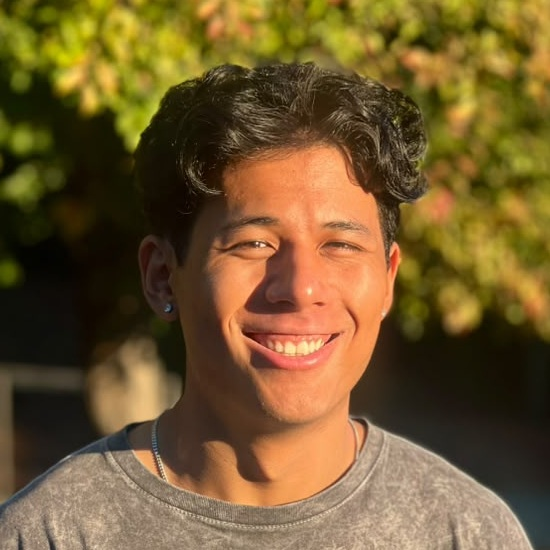
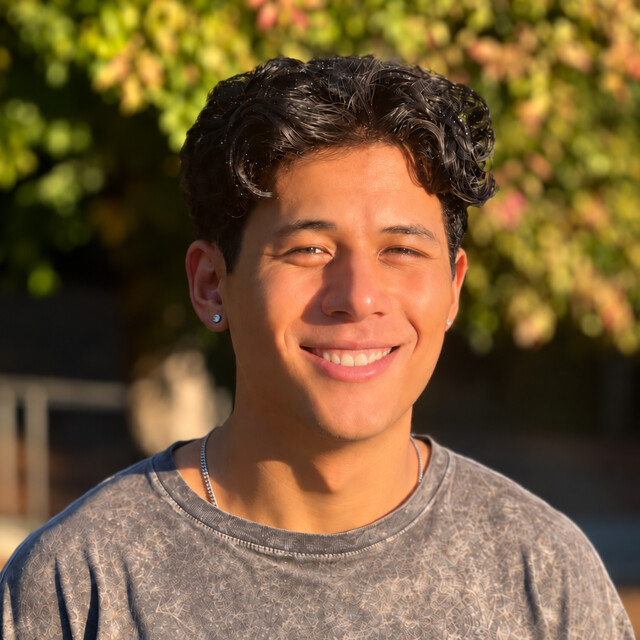
Update website headshot with cropped portrait

diff --git a/index.html b/index.html
@@ -7,9 +7,9 @@
     <meta name="description" content="Thomas Jiralerspong - PhD Student at Mila, Research Fellow at Astra Fellowship">
 
     <!-- Favicons -->
-    <link rel="icon" type="image/jpeg" href="/assets/images/profile.jpg">
-    <link rel="apple-touch-icon" href="/assets/images/profile.jpg">
-    <meta name="msapplication-TileImage" content="/assets/images/profile.jpg">
+    <link rel="icon" type="image/jpeg" href="/assets/images/profile.jpg?v=20260908">
+    <link rel="apple-touch-icon" href="/assets/images/profile.jpg?v=20260908">
+    <meta name="msapplication-TileImage" content="/assets/images/profile.jpg?v=20260908">
 
     <!-- Structured Data for Google Search -->
     <script type="application/ld+json">
@@ -17,7 +17,7 @@
       "@context": "https://schema.org",
       "@type": "Person",
       "name": "Thomas Jiralerspong",
-      "image": "https://superkaiba.github.io/assets/images/profile.jpg",
+      "image": "https://superkaiba.github.io/assets/images/profile.jpg?v=20260908",
       "url": "https://superkaiba.github.io",
       "jobTitle": "PhD Student",
       "description": "PhD Student at Mila, Research Fellow at Astra Fellowship",
@@ -97,7 +97,7 @@
         <div class="top-section">
             <!-- Left: Photo, Name, Links -->
             <div class="profile-column">
-                <img src="assets/images/profile.jpg" alt="Thomas Jiralerspong" class="profile-image">
+                <img src="assets/images/profile.jpg?v=20260908" alt="Thomas Jiralerspong" class="profile-image">
                 <h1 class="site-title">Thomas Jiralerspong</h1>
 
                 <div class="links-column">

diff --git a/testimonials.html b/testimonials.html
@@ -7,9 +7,9 @@
     <meta name="description" content="Anonymized testimonials from students mentored by Thomas Jiralerspong">
 
     <!-- Favicons -->
-    <link rel="icon" type="image/jpeg" href="/assets/images/profile.jpg">
-    <link rel="apple-touch-icon" href="/assets/images/profile.jpg">
-    <meta name="msapplication-TileImage" content="/assets/images/profile.jpg">
+    <link rel="icon" type="image/jpeg" href="/assets/images/profile.jpg?v=20260908">
+    <link rel="apple-touch-icon" href="/assets/images/profile.jpg?v=20260908">
+    <meta name="msapplication-TileImage" content="/assets/images/profile.jpg?v=20260908">
 
     <link rel="preconnect" href="https://fonts.googleapis.com">
     <link rel="preconnect" href="https://fonts.gstatic.com" crossorigin>

diff --git a/top5s.html b/top5s.html
@@ -7,9 +7,9 @@
     <meta name="description" content="Thomas Jiralerspong's top 5 movies and TV shows">
 
     <!-- Favicons -->
-    <link rel="icon" type="image/jpeg" href="/assets/images/profile.jpg">
-    <link rel="apple-touch-icon" href="/assets/images/profile.jpg">
-    <meta name="msapplication-TileImage" content="/assets/images/profile.jpg">
+    <link rel="icon" type="image/jpeg" href="/assets/images/profile.jpg?v=20260908">
+    <link rel="apple-touch-icon" href="/assets/images/profile.jpg?v=20260908">
+    <meta name="msapplication-TileImage" content="/assets/images/profile.jpg?v=20260908">
 
     <link rel="preconnect" href="https://fonts.googleapis.com">
     <link rel="preconnect" href="https://fonts.gstatic.com" crossorigin>
